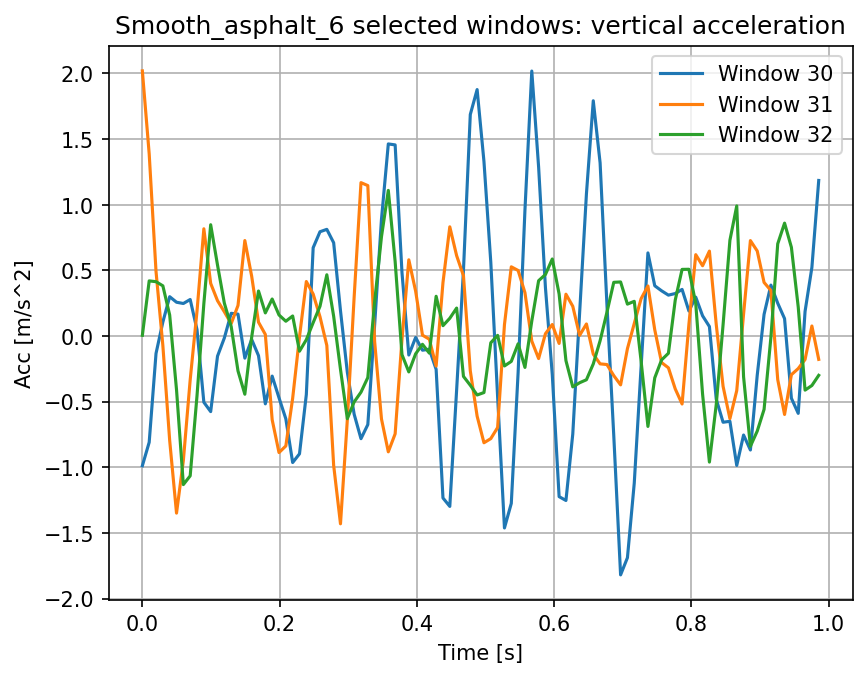
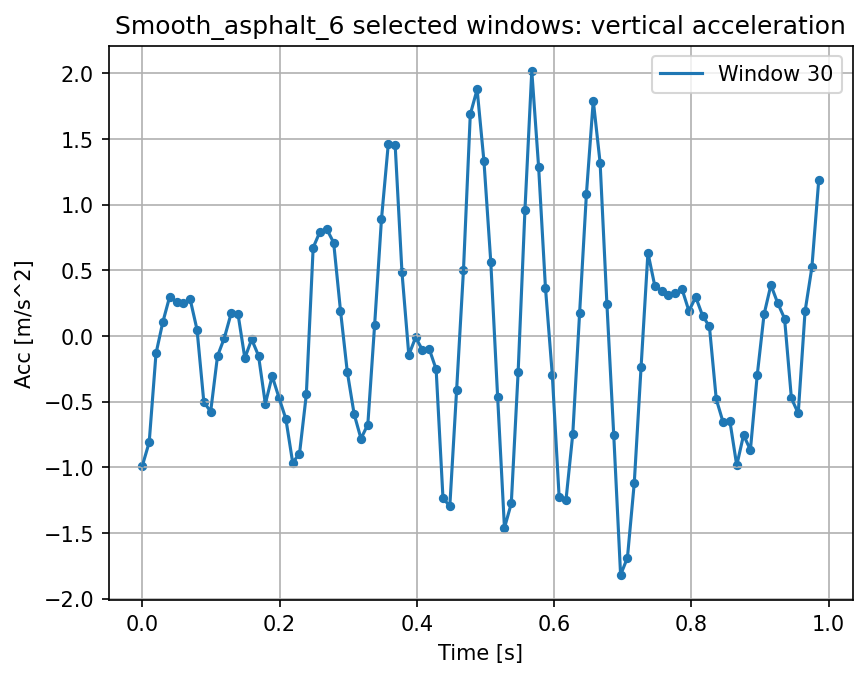
Creating AE

diff --git a/Machine_Learning/Defect_identification/test_algorithms.py b/Machine_Learning/Defect_identification/test_algorithms.py
@@ -1,0 +1,79 @@
+"""
+Train and evaluate classifiers on the prepared road-surface dataset.
+
+The script builds the train/test DataFrames, separates features from labels,
+scales the features, and calls the shared evaluation utility for each selected
+machine-learning model.
+"""
+
+from pathlib import Path
+
+import matplotlib
+matplotlib.use("Agg")
+import matplotlib.pyplot as plt
+from sklearn import neighbors, svm
+from sklearn.preprocessing import StandardScaler
+
+try:
+    from .Dataset_construction import build_surface_dataset
+    from .ML_utils import evaluate_model
+except ImportError:
+    from Dataset_construction import build_surface_dataset
+    from ML_utils import evaluate_model
+
+
+OUTPUT_DIR = Path(__file__).resolve().parent / "model_results"
+
+
+train_df, test_df, _ = build_surface_dataset() 
+
+# sanity check of dimensions
+print("train_df shape:", train_df.shape)
+print("test_df shape:", test_df.shape)
+
+# ==================================
+# FEATURES / LABELS
+# ==================================
+X_train = train_df.drop(columns=["srf"])
+Y_train = train_df["srf"]
+
+X_test = test_df.drop(columns=["srf"])
+Y_test = test_df["srf"]
+
+# ==================================
+# SCALING INPUT FEATURES
+# ==================================
+scaler = StandardScaler()
+X_train_scaled = scaler.fit_transform(X_train)
+X_test_scaled = scaler.transform(X_test)
+
+# ==================================
+# MODELS TRAINING AND EVALUATION
+# ==================================
+evaluate_model(
+    svm.SVC(kernel="rbf"),
+    X_train_scaled,
+    Y_train,
+    X_test_scaled,
+    Y_test,
+    "SVM Classifier",
+)
+evaluate_model(
+    neighbors.KNeighborsClassifier(n_neighbors=5, weights="uniform"),
+    X_train_scaled,
+    Y_train,
+    X_test_scaled,
+    Y_test,
+    "KNN Classifier",
+)
+
+OUTPUT_DIR.mkdir(exist_ok=True)
+for figure_number in plt.get_fignums():
+    figure = plt.figure(figure_number)
+    figure.savefig(
+        OUTPUT_DIR / f"confusion_matrix_{figure_number}.png",
+        dpi=150,
+        bbox_inches="tight",
+    )
+
+print(f"\nConfusion matrix figures saved to: {OUTPUT_DIR}")

diff --git a/Machine_Learning/Defect_identification/Dataset_construction.py b/Machine_Learning/Defect_identification/Dataset_construction.py
@@ -88,7 +88,7 @@ def normalize_debug_window_indices(debug_window_index, n_windows):
 
 def build_surface_dataset(
     base_dir=BASE_DIR,
-    surface_types=("Smooth_asphalt",),
+    surface_types=("Smooth_asphalt", "Rough_asphalt"),
     measurement_ids=None,
     fsamp=None,
     stationary_seconds=3.0,
@@ -319,6 +319,11 @@ def build_surface_dataset(
                         debug_time,
                         debug_segment,
                         label=f"Window {index}",
+                    )
+                    plt.scatter(
+                        debug_time,
+                        debug_segment,
+                        s=12,
                     )
                 plt.xlabel("Time [s]")
                 plt.ylabel("Acc [m/s^2]")

diff --git a/Machine_Learning/Defect_identification/debug.py b/Machine_Learning/Defect_identification/debug.py
@@ -19,7 +19,7 @@ from Machine_Learning.Defect_identification.Dataset_construction import build_su
 
 DEBUG_SURFACE = "Smooth_asphalt"
 DEBUG_MEASUREMENT = 6
-DEBUG_WINDOW_INDEX = [30,31,32]
+DEBUG_WINDOW_INDEX = [30]
 
 window_df, debug_data = build_surface_dataset(
     plot_debug=True,
